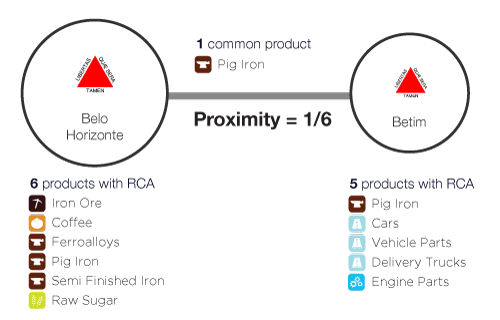
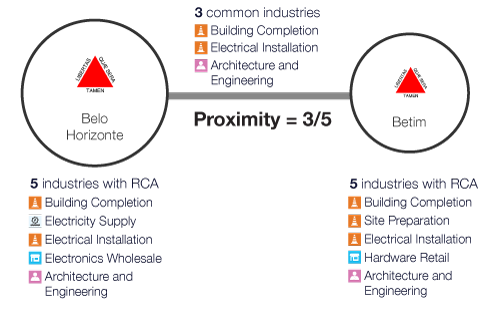
fixed location proximity definition

diff --git a/dataviva/html/about/apps/occugrid.html b/dataviva/html/about/apps/occugrid.html
@@ -7,23 +7,23 @@
 <h1>Occugrid</h1>
 
 <div class="topic">
-<p>The Occugrid shows the <a href="/about/glossary/#required-workforce">required workforce</a> for a given industry. It can be used to determine which occupations a location may need to hire in order to become more successful. By changing sizing, grouping, and other parameters, a user is able to bring clarity to the list of required occupations.</p>
+<p>The Occugrid shows the recommended workforce for a given industry. It can be used to determine which occupations a location may need to hire in order to become more successful. By changing sizing, grouping, and other parameters, a user is able to bring clarity to the list of recommended occupations.</p>
 </div>
 
 <div class="topic">
 	<h2>Visual Language</h2>
-	<p>In the Occugrid, each occupation is represented by a small donut chart. The overall slices of the donut are determined by the total <a href="/about/glossary/#required-employees">Required Number of Employees</a>. This donut chart is divided into 3 sections, as is illustrated in the following diagram:</p>
+	<p>In the Occugrid, each occupation is represented by a small donut chart. The overall slices of the donut are determined by the total Recommended Employees. This donut chart is divided into 3 sections, as is illustrated in the following diagram:</p>
 	<img src="/static/img/help/occugrid/occugrid_details_small.png">
 </div>
 
 <div class="topic">
 	<h2>Sizing</h2>
-	<p>Each donuts’ radius can be sized using a number of variables. These include: <a href="/about/glossary/#importance">Importance</a>, Average Monthly Wage, and <a href="/about/glossary/#required-employees">Required Number of Employees</a>.</p>
+	<p>Each donuts’ radius can be sized using a number of variables. These include: Importance, Average Monthly Wage, and Recommended Employees.</p>
 </div>
 
 <div class="topic">
 	<h2>Grouping</h2>
-	<p>To help get a quick understanding of the different types of occupations you are looking at, the donuts can be placed into different groupings. These include: Grid, Category, and Availability.</p>
+	<p>To help get a quick understanding of the different types of occupations you are looking at, the donuts can be placed into different groupings. These include: Grid and Category.</p>
 </div>
 
 <div class="topic">

diff --git a/dataviva/html/about/glossary.html b/dataviva/html/about/glossary.html
@@ -57,7 +57,7 @@
   <br>
   
   <h3>Location Proximity</h3>
-  <p>The proximity measure used to measure how similar locations are is quite simply the inverse of the calculation used for the product space. The same matrix of products and locations is used. Below you will see an illustration of this calculation.</p>
+  <p>The proximity calculation used to determine how similar locations are is very similar to the one used for the product space, except the RCA calculation matrix is based off of locations and industries. This calculation could also be made by substituting products for industries but since these numbers are only used for the Recommended Employees calculations (which uses employment data) we are using industries.</p>
   <img src="/static/img/help/glossary/proximity_locations.png" />
   <br>
   
@@ -96,8 +96,8 @@
   </p>
   <br>
 
-  <h2>Required Employees</h2>
-  <p>To determine how many employees of a given occupation are required for a given industry in a given location, we find the top 20% of similar locations by Locational Proximity and take the average of those locations’ number of employees in an occupation per establishment. If a location already has RCA  1 we would just use their number for the recommended employment.</p>
+  <h2>Recommended Employees</h2>
+  <p>To determine how many employees of a given occupation are recommended for a given industry in a given location, we find the top 20% of similar locations by Locational Proximity and take the average of those locations’ number of employees in an occupation per establishment. If a location already has RCA we would just use their number for the recommended employment.</p>
   
   <p>Used In: <a href="/about/apps/occugrid/">Occugrid</a></p>
 
